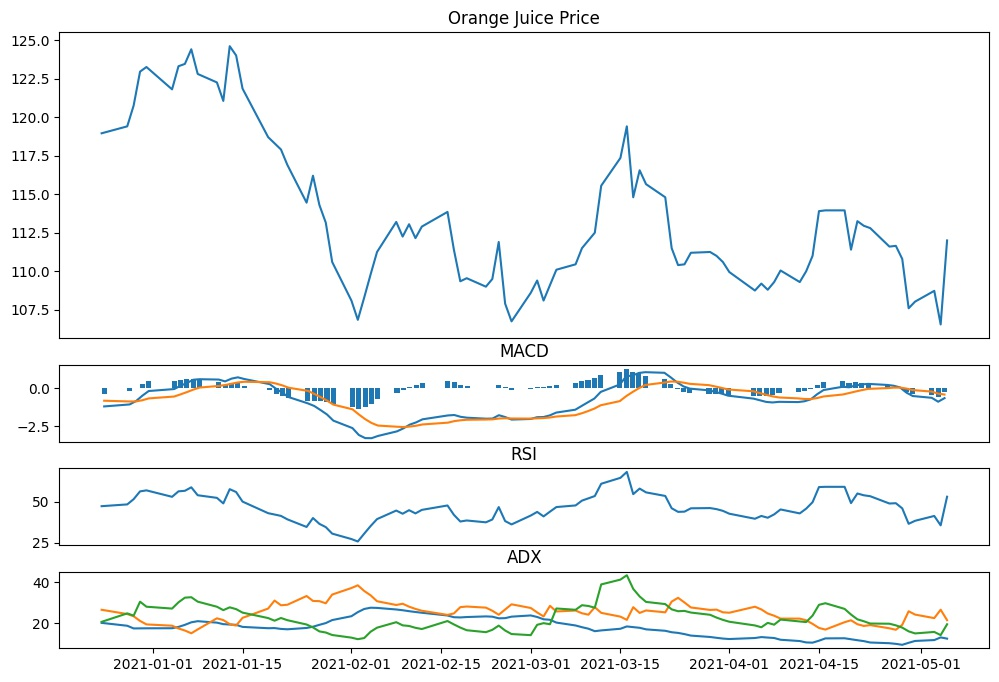
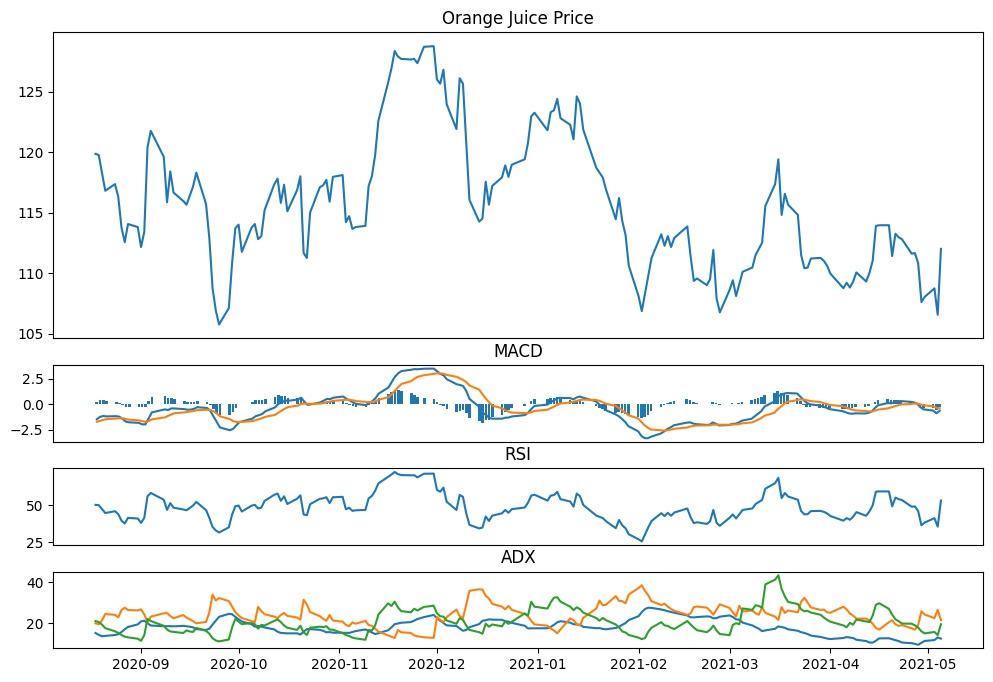
update

diff --git a/test.py b/test.py
@@ -152,18 +152,10 @@ class Settings_():
 
         def parameters_dict():
             # Get values from entries and save to json
-            # rsiu = e_sru.get()
-            # rsid = e_srd.get()
-            macdu = e_macu.get()
-            macdd = e_macd.get()
             low = e_low.get()
             medium = e_medium.get()
             high = e_high.get()
-            parameters = {'rsiu' : str(entry_rsi_up),
-                            'rsid' : str(entry_rsi_down),
-                            'macdu' : macdu,
-                            'macdd' : macdd,
-                            'low':low,
+            parameters = {  'low':low,
                             'medium': medium,
                             'high': high
                             }
@@ -178,60 +170,31 @@ class Settings_():
 
 
         options = ['Low','Medium','High']
-        # RSI Up
-        entry_rsi_up = StringVar()
-        entry_rsi_up.set('Low')
-        sru = Label(self.top1,text = 'RSI Cross 30 Up:')
-        sru.grid(row = 1, column = 0, padx = 10, pady = 5)
-        e_sru = OptionMenu(self.top1,entry_rsi_up,*options)
-        e_sru.grid(row = 1, column = 1, padx = 10, pady = 5,)
-
-        # RSI Down
-        entry_rsi_down = StringVar()
-        entry_rsi_down.set('Low')
-        srd = Label(self.top1,text = 'RSI Cross 30 Down:')
-        srd.grid(row = 2, column = 0, padx = 10, pady = 5)
-        e_srd = OptionMenu(self.top1,entry_rsi_down,*options)
-        e_srd.grid(row = 2, column = 1, padx = 10, pady = 5)
-
-        #MACD Up
-        macu = Label(self.top1,text = 'MACD cross signal line up')
-        macu.grid(row = 3, column = 0, padx = 10, pady = 5)
-        e_macu = Entry(self.top1)
-        e_macu.grid(row = 3, column = 1, padx = 10, pady = 5)
-
-
-        #MACD Down
-        macd = Label(self.top1,text = 'MACD cross signal line down')
-        macd.grid(row = 4, column = 0, padx = 10, pady = 5)
-        e_macd = Entry(self.top1)
-        e_macd.grid(row = 4, column = 1, padx = 10, pady = 5)
-
-
 
 
         low = Label(self.top1,text = 'Low')
         low.grid(row = 5, column = 0, padx = 10, pady = 5)
         e_low = Entry(self.top1)
         e_low.grid(row = 5, column = 1, padx = 10, pady = 5)
+        e_low.insert(0,read_parameters()['low'])
 
         medium = Label(self.top1,text = 'medium')
         medium.grid(row = 6, column = 0, padx = 10, pady = 5)
         e_medium = Entry(self.top1)
         e_medium.grid(row = 6, column = 1, padx = 10, pady = 5)
+        e_medium.insert(0,read_parameters()['medium'])
 
         high = Label(self.top1,text = 'high')
         high.grid(row = 7, column = 0, padx = 10, pady = 5)
         e_high = Entry(self.top1)
         e_high.grid(row = 7, column = 1, padx = 10, pady = 5)
-
-
+        e_high.insert(0,read_parameters()['high'])
+        
         
         # Save Btn
-        save_btn = Button(self.top1, text = 'hi', command = lambda: parameters_dict())
+        save_btn = Button(self.top1, text = 'Save', command = lambda: parameters_dict())
         save_btn.grid(row=8,column=1)
 
-        # self.top1.mainloop()
 
         
 

diff --git a/commodities_quotes.py b/commodities_quotes.py
@@ -248,7 +248,7 @@ def main():
     for key,value in data.items():
 
         # Use different proccecor for matplotlib grapghs
-        multiprocessing.Process(target=save_plot,args=(key,value[-90:])).start()
+        multiprocessing.Process(target=save_plot,args=(key,value[-180:])).start()
         save_data(key,value)
 
         score = Score(value).total_score
